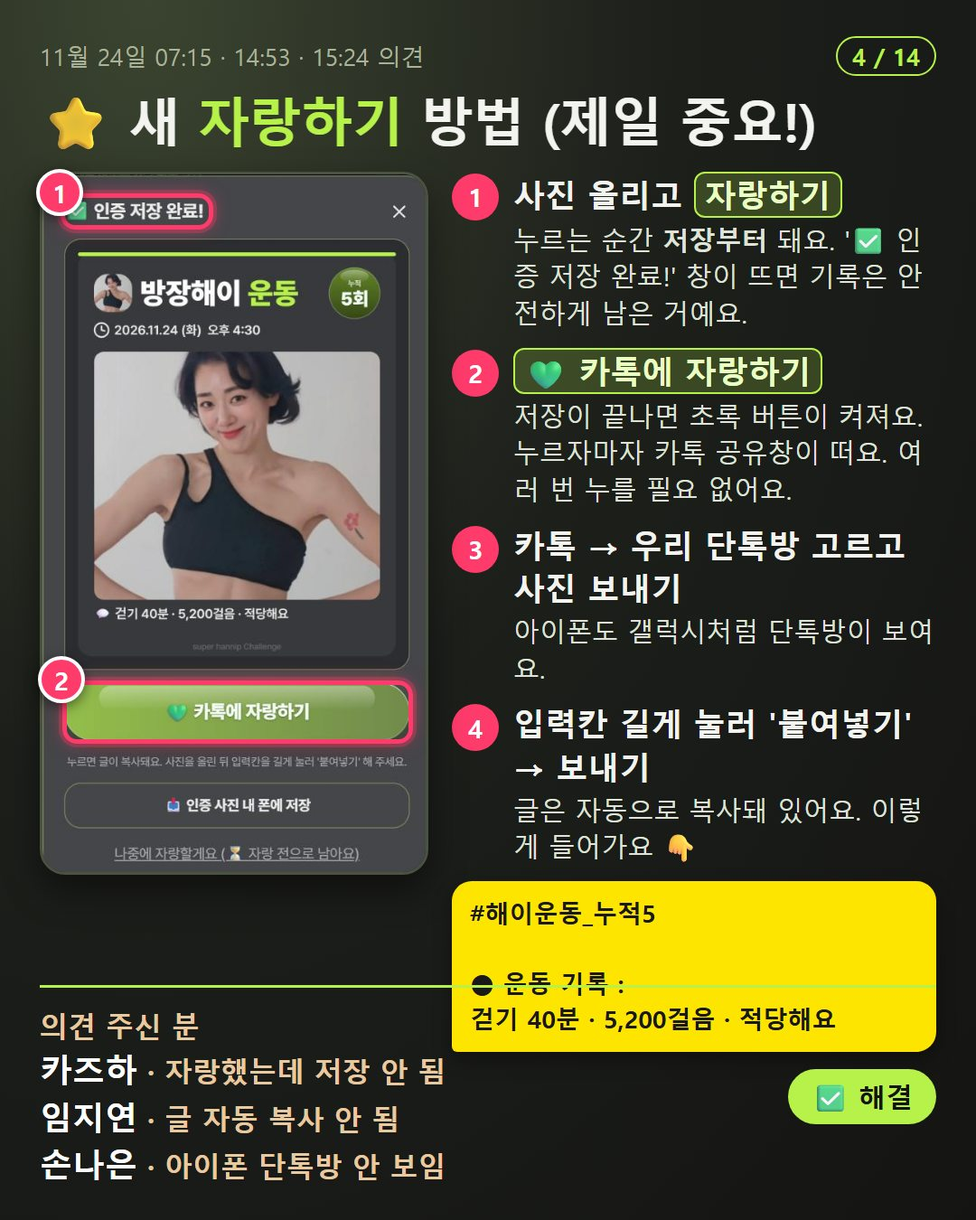
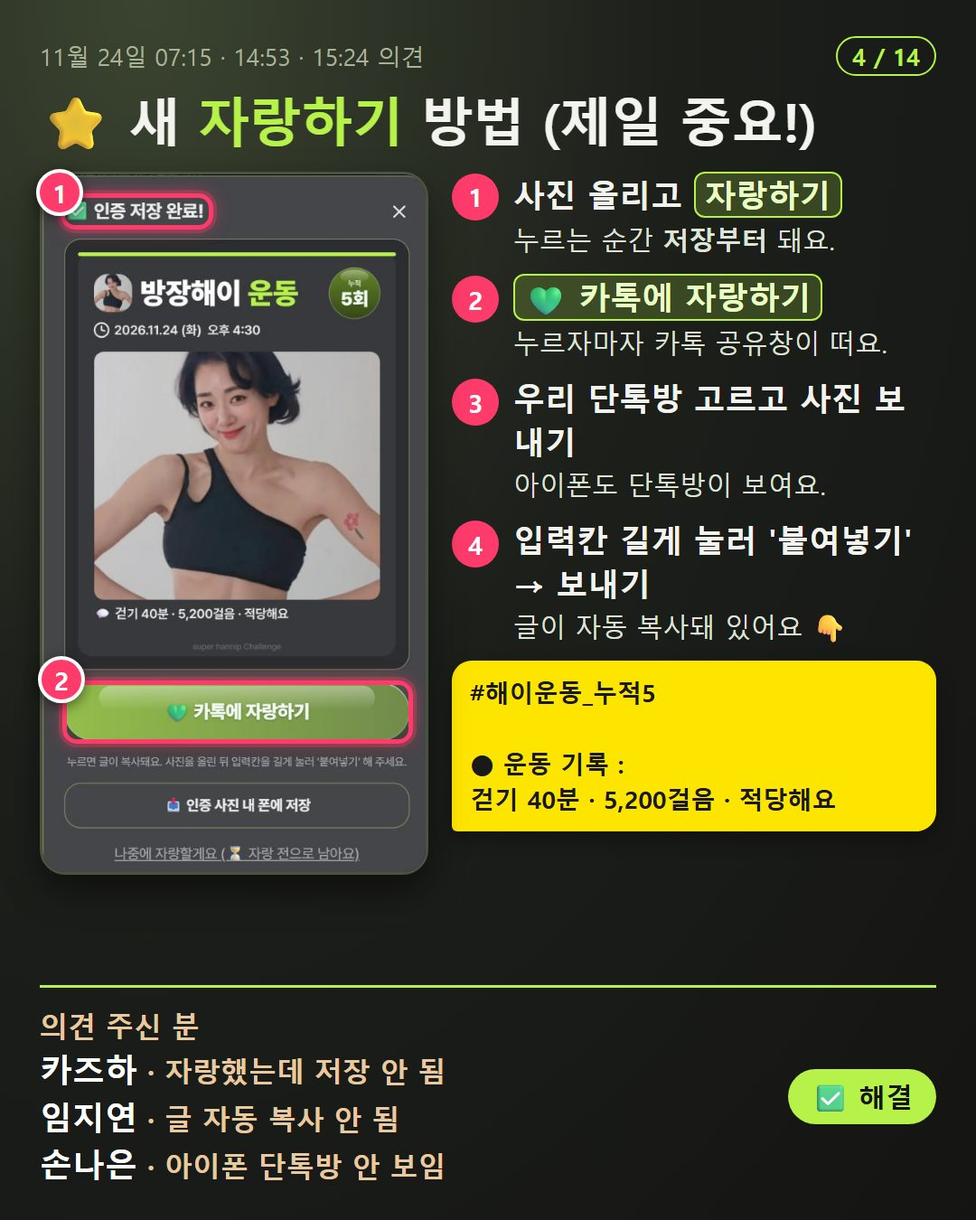
공지 4장 글 상자 겹침 고침

Changed region(s): [[0.4583, 0.1867, 0.9778, 0.8711]]

diff --git a/client/public/guide/index.html b/client/public/guide/index.html
@@ -60,10 +60,10 @@ video::cue{font-size:15px;background:rgba(0,0,0,.7)}
 .gal img{display:block;width:100%;border-radius:18px;margin-top:12px}
 </style></head><body><div class='wrap'><div class='page' id='p-home'><header><div class='ey'>SUPER HANNIP CHALLENGE</div><h1>앱 사용설명서</h1><p>보고 싶은 항목을 눌러 주세요.<br>다 보면 <b style='color:#b6f24a'>[← 뒤로 가기]</b>로 이 목록에 돌아와요.</p></header><div class='nu'><div class='nuh'>🆕 NEW UPDATE</div><div class='nubox'>
 <a class='bub' href='#v17_brag' data-id='v17_brag' data-date='2026-11-24'><span class='ring'><img src='poster/v17_brag.jpg' alt=''><i>🎬</i></span><span class='tag'>NEW</span><b>새 자랑하기</b><small>11/24</small></a>
-<a class='bub' href='#u1124' data-id='u1124' data-date='2026-11-24'><span class='ring'><img src='/notice/1124/01.jpg?v=4' alt=''><i>🖼</i></span><span class='tag'>NEW</span><b>크루 의견</b><small>11/24</small></a>
+<a class='bub' href='#u1124' data-id='u1124' data-date='2026-11-24'><span class='ring'><img src='/notice/1124/01.jpg?v=5' alt=''><i>🖼</i></span><span class='tag'>NEW</span><b>크루 의견</b><small>11/24</small></a>
 <a class='bub' href='#v15_meal_more' data-id='v15_meal_more' data-date='2026-11-23'><span class='ring'><img src='poster/v15_meal_more.jpg' alt=''><i>🎬</i></span><span class='tag'>NEW</span><b>식단 추가</b><small>11/23</small></a>
 <a class='bub' href='#v16_shop_more' data-id='v16_shop_more' data-date='2026-11-23'><span class='ring'><img src='poster/v16_shop_more.jpg' alt=''><i>🎬</i></span><span class='tag'>NEW</span><b>구매 추가</b><small>11/23</small></a>
-</div><p class='nuhint'>동그라미를 누르면 크게 볼 수 있어요 · <b>NEW</b>는 아직 안 본 것</p></div><div class='lh'>처음 시작할 때</div><div class='list'><a class='go' href='#signup'><span class='n'>1</span>👋 가입하기</a><a class='go' href='#profile'><span class='n'>2</span>📝 처음 정보 입력</a></div><div class='lh'>☰ 메뉴 사용법 (영상)</div><div class='list'><a class='go' href='#v01_menu'><span class='n'>1</span>메뉴 탭<span class='d'>0:39</span></a><a class='go' href='#v02_today'><span class='n'>2</span>오늘 탭<span class='d'>1:00</span></a><a class='go' href='#v03_sleep'><span class='n'>3</span>수면 인증<span class='d'>2:21</span></a><a class='go' href='#v04_meal'><span class='n'>4</span>식단 인증<span class='d'>0:52</span></a><a class='go' href='#v05_water'><span class='n'>5</span>물 인증<span class='d'>0:35</span></a><a class='go' href='#v06_exercise'><span class='n'>6</span>운동 인증<span class='d'>1:24</span></a><a class='go' href='#v07_weight'><span class='n'>7</span>체중 인증<span class='d'>1:11</span></a><a class='go' href='#v08_profile'><span class='n'>8</span>프로필 · 앱 꾸미기<span class='d'>1:02</span></a><a class='go' href='#v09_year'><span class='n'>9</span>1년<span class='d'>0:31</span></a><a class='go' href='#v10_itge'><span class='n'>10</span>이게돼 · 시상식<span class='d'>1:29</span></a><a class='go' href='#v11_change'><span class='n'>11</span>나의 변화 · 비포 애프터 · 멤버<span class='d'>0:46</span></a><a class='go' href='#v12_hof'><span class='n'>12</span>명예의 전당<span class='d'>0:43</span></a><a class='go' href='#v13_shop'><span class='n'>13</span>구매하기<span class='d'>1:20</span></a><a class='go' href='#v14_apply'><span class='n'>14</span>신청하기<span class='d'>1:36</span></a></div><footer>궁금한 건 앱의 <b>신청하기 → 의견 보내기</b>로 알려 주세요 💚<br>슈퍼한입 챌린지 · 나를 칭찬하는 순간, 우리 모두가 1등이 됩니다</footer></div><div class='page' id='p-signup'><div class='bar'><button type='button' class='back'>← 뒤로 가기</button></div><h2><span class='n'>1</span>👋 가입하기</h2><div class='vcard'><div class='vlabel'>🎬 영상으로 보기 <span>1:37</span></div><button type='button' class='vthumb mthumb' style="background-image:url('poster/signup_v.jpg')" data-src='vid/signup.mp4?v=2' data-sub='sub/signup.vtt?v=2'><span class='dim'></span><span class='play'></span><span class='tx'>눌러서 영상 보기</span></button></div></div><div class='page' id='p-profile'><div class='bar'><button type='button' class='back'>← 뒤로 가기</button></div><h2><span class='n'>2</span>📝 처음 정보 입력</h2><div class='vcard'><div class='vlabel'>🎬 영상으로 보기 <span>2:07</span></div><button type='button' class='vthumb mthumb' style="background-image:url('poster/profile_v.jpg')" data-src='vid/profile.mp4?v=2' data-sub='sub/profile.vtt?v=2'><span class='dim'></span><span class='play'></span><span class='tx'>눌러서 영상 보기</span></button></div></div><div class='page' id='p-v01_menu'><div class='bar'><button type='button' class='back'>← 뒤로 가기</button></div><div class='vcard mv' style='margin-top:8px'><div class='vlabel'><span style='color:#ececea;font-size:23px;font-weight:900'><i>1</i>메뉴 탭</span><span>0:39</span></div><button type='button' class='vthumb mthumb' style="background-image:url('poster/v01_menu.jpg')" data-src='vid/v01_menu.mp4' data-sub='sub/v01_menu.vtt'><span class='dim'></span><span class='play'></span><span class='tx'>눌러서 영상 보기</span></button></div></div><div class='page' id='p-v02_today'><div class='bar'><button type='button' class='back'>← 뒤로 가기</button></div><div class='vcard mv' style='margin-top:8px'><div class='vlabel'><span style='color:#ececea;font-size:23px;font-weight:900'><i>2</i>오늘 탭</span><span>1:00</span></div><button type='button' class='vthumb mthumb' style="background-image:url('poster/v02_today.jpg')" data-src='vid/v02_today.mp4' data-sub='sub/v02_today.vtt'><span class='dim'></span><span class='play'></span><span class='tx'>눌러서 영상 보기</span></button></div></div><div class='page' id='p-v03_sleep'><div class='bar'><button type='button' class='back'>← 뒤로 가기</button></div><div class='vcard mv' style='margin-top:8px'><div class='vlabel'><span style='color:#ececea;font-size:23px;font-weight:900'><i>3</i>수면 인증</span><span>2:21</span></div><button type='button' class='vthumb mthumb' style="background-image:url('poster/v03_sleep.jpg')" data-src='vid/v03_sleep.mp4' data-sub='sub/v03_sleep.vtt'><span class='dim'></span><span class='play'></span><span class='tx'>눌러서 영상 보기</span></button></div></div><div class='page' id='p-v04_meal'><div class='bar'><button type='button' class='back'>← 뒤로 가기</button></div><div class='vcard mv' style='margin-top:8px'><div class='vlabel'><span style='color:#ececea;font-size:23px;font-weight:900'><i>4</i>식단 인증</span><span>0:52</span></div><button type='button' class='vthumb mthumb' style="background-image:url('poster/v04_meal.jpg')" data-src='vid/v04_meal.mp4' data-sub='sub/v04_meal.vtt'><span class='dim'></span><span class='play'></span><span class='tx'>눌러서 영상 보기</span></button></div></div><div class='page' id='p-v05_water'><div class='bar'><button type='button' class='back'>← 뒤로 가기</button></div><div class='vcard mv' style='margin-top:8px'><div class='vlabel'><span style='color:#ececea;font-size:23px;font-weight:900'><i>5</i>물 인증</span><span>0:35</span></div><button type='button' class='vthumb mthumb' style="background-image:url('poster/v05_water.jpg')" data-src='vid/v05_water.mp4' data-sub='sub/v05_water.vtt'><span class='dim'></span><span class='play'></span><span class='tx'>눌러서 영상 보기</span></button></div></div><div class='page' id='p-v06_exercise'><div class='bar'><button type='button' class='back'>← 뒤로 가기</button></div><div class='vcard mv' style='margin-top:8px'><div class='vlabel'><span style='color:#ececea;font-size:23px;font-weight:900'><i>6</i>운동 인증</span><span>1:24</span></div><button type='button' class='vthumb mthumb' style="background-image:url('poster/v06_exercise.jpg')" data-src='vid/v06_exercise.mp4' data-sub='sub/v06_exercise.vtt'><span class='dim'></span><span class='play'></span><span class='tx'>눌러서 영상 보기</span></button></div></div><div class='page' id='p-v07_weight'><div class='bar'><button type='button' class='back'>← 뒤로 가기</button></div><div class='vcard mv' style='margin-top:8px'><div class='vlabel'><span style='color:#ececea;font-size:23px;font-weight:900'><i>7</i>체중 인증</span><span>1:11</span></div><button type='button' class='vthumb mthumb' style="background-image:url('poster/v07_weight.jpg')" data-src='vid/v07_weight.mp4' data-sub='sub/v07_weight.vtt'><span class='dim'></span><span class='play'></span><span class='tx'>눌러서 영상 보기</span></button></div></div><div class='page' id='p-v08_profile'><div class='bar'><button type='button' class='back'>← 뒤로 가기</button></div><div class='vcard mv' style='margin-top:8px'><div class='vlabel'><span style='color:#ececea;font-size:23px;font-weight:900'><i>8</i>프로필 · 앱 꾸미기</span><span>1:02</span></div><button type='button' class='vthumb mthumb' style="background-image:url('poster/v08_profile.jpg')" data-src='vid/v08_profile.mp4' data-sub='sub/v08_profile.vtt'><span class='dim'></span><span class='play'></span><span class='tx'>눌러서 영상 보기</span></button></div></div><div class='page' id='p-v09_year'><div class='bar'><button type='button' class='back'>← 뒤로 가기</button></div><div class='vcard mv' style='margin-top:8px'><div class='vlabel'><span style='color:#ececea;font-size:23px;font-weight:900'><i>9</i>1년</span><span>0:31</span></div><button type='button' class='vthumb mthumb' style="background-image:url('poster/v09_year.jpg')" data-src='vid/v09_year.mp4' data-sub='sub/v09_year.vtt'><span class='dim'></span><span class='play'></span><span class='tx'>눌러서 영상 보기</span></button></div></div><div class='page' id='p-v10_itge'><div class='bar'><button type='button' class='back'>← 뒤로 가기</button></div><div class='vcard mv' style='margin-top:8px'><div class='vlabel'><span style='color:#ececea;font-size:23px;font-weight:900'><i>10</i>이게돼 · 시상식</span><span>1:29</span></div><button type='button' class='vthumb mthumb' style="background-image:url('poster/v10_itge.jpg')" data-src='vid/v10_itge.mp4' data-sub='sub/v10_itge.vtt'><span class='dim'></span><span class='play'></span><span class='tx'>눌러서 영상 보기</span></button></div></div><div class='page' id='p-v11_change'><div class='bar'><button type='button' class='back'>← 뒤로 가기</button></div><div class='vcard mv' style='margin-top:8px'><div class='vlabel'><span style='color:#ececea;font-size:23px;font-weight:900'><i>11</i>나의 변화 · 비포 애프터 · 멤버</span><span>0:46</span></div><button type='button' class='vthumb mthumb' style="background-image:url('poster/v11_change.jpg')" data-src='vid/v11_change.mp4' data-sub='sub/v11_change.vtt'><span class='dim'></span><span class='play'></span><span class='tx'>눌러서 영상 보기</span></button></div></div><div class='page' id='p-v12_hof'><div class='bar'><button type='button' class='back'>← 뒤로 가기</button></div><div class='vcard mv' style='margin-top:8px'><div class='vlabel'><span style='color:#ececea;font-size:23px;font-weight:900'><i>12</i>명예의 전당</span><span>0:43</span></div><button type='button' class='vthumb mthumb' style="background-image:url('poster/v12_hof.jpg')" data-src='vid/v12_hof.mp4' data-sub='sub/v12_hof.vtt'><span class='dim'></span><span class='play'></span><span class='tx'>눌러서 영상 보기</span></button></div></div><div class='page' id='p-v13_shop'><div class='bar'><button type='button' class='back'>← 뒤로 가기</button></div><div class='vcard mv' style='margin-top:8px'><div class='vlabel'><span style='color:#ececea;font-size:23px;font-weight:900'><i>13</i>구매하기</span><span>1:20</span></div><button type='button' class='vthumb mthumb' style="background-image:url('poster/v13_shop.jpg')" data-src='vid/v13_shop.mp4' data-sub='sub/v13_shop.vtt'><span class='dim'></span><span class='play'></span><span class='tx'>눌러서 영상 보기</span></button></div></div><div class='page' id='p-v14_apply'><div class='bar'><button type='button' class='back'>← 뒤로 가기</button></div><div class='vcard mv' style='margin-top:8px'><div class='vlabel'><span style='color:#ececea;font-size:23px;font-weight:900'><i>14</i>신청하기</span><span>1:36</span></div><button type='button' class='vthumb mthumb' style="background-image:url('poster/v14_apply.jpg')" data-src='vid/v14_apply.mp4' data-sub='sub/v14_apply.vtt'><span class='dim'></span><span class='play'></span><span class='tx'>눌러서 영상 보기</span></button></div></div><div class='page' id='p-v15_meal_more'><div class='bar'><button type='button' class='back'>← 뒤로 가기</button></div><div class='vcard mv' style='margin-top:8px'><div class='vlabel'><span style='color:#ececea;font-size:23px;font-weight:900'><i>⭐</i>추가 내용 · 식단 인증</span><span>4:23</span></div><p style='margin:6px 2px 12px;color:#b6f24a;font-weight:800;font-size:17px'>식단 인증 추가 내용 있어요. 이거 꼭 보세요!</p><button type='button' class='vthumb mthumb' style="background-image:url('poster/v15_meal_more.jpg')" data-src='vid/v15_meal_more.mp4' data-sub='sub/v15_meal_more.vtt'><span class='dim'></span><span class='play'></span><span class='tx'>눌러서 영상 보기</span></button></div></div><div class='page' id='p-v16_shop_more'><div class='bar'><button type='button' class='back'>← 뒤로 가기</button></div><div class='vcard mv' style='margin-top:8px'><div class='vlabel'><span style='color:#ececea;font-size:23px;font-weight:900'><i>⭐</i>추가 내용 · 구매하기</span><span>1:38</span></div><p style='margin:6px 2px 12px;color:#b6f24a;font-weight:800;font-size:17px'>구매하기 추가 내용 있어요. 구매 전에 꼭 보세요!</p><button type='button' class='vthumb mthumb' style="background-image:url('poster/v16_shop_more.jpg')" data-src='vid/v16_shop_more.mp4' data-sub='sub/v16_shop_more.vtt'><span class='dim'></span><span class='play'></span><span class='tx'>눌러서 영상 보기</span></button></div></div><div class='page' id='p-v17_brag'><div class='bar'><button type='button' class='back'>← 뒤로 가기</button></div><div class='vcard mv' style='margin-top:8px'><div class='vlabel'><span style='color:#ececea;font-size:23px;font-weight:900'><i>⭐</i>추가 내용 · 새 자랑하기</span><span>1:23</span></div><p style='margin:6px 2px 12px;color:#b6f24a;font-weight:800;font-size:17px'>자랑하기를 누르면 저장부터! 깜빡하면 '자랑 전'에서 다시, 내 폰 저장, 글 붙여넣기까지 꼭 보세요!</p><button type='button' class='vthumb mthumb' style="background-image:url('poster/v17_brag.jpg')" data-src='vid/v17_brag.mp4' data-sub='sub/v17_brag.vtt'><span class='dim'></span><span class='play'></span><span class='tx'>눌러서 영상 보기</span></button></div></div><div class='page' id='p-u1124'><div class='bar'><button type='button' class='back'>← 뒤로 가기</button></div><h2>🖼 11월 24일 업데이트</h2><p style='color:#a6a9ae;font-size:14px;margin:4px 2px 0'>아래로 내리면서 한 장씩 봐 주세요.</p><div class='gal'><img src='/notice/1124/01.jpg?v=4' alt='업데이트 안내 2' loading='lazy'><img src='/notice/1124/02.jpg?v=4' alt='업데이트 안내 3' loading='lazy'><img src='/notice/1124/03.jpg?v=4' alt='업데이트 안내 4' loading='lazy'><img src='/notice/1124/04.jpg?v=4' alt='업데이트 안내 5' loading='lazy'><img src='/notice/1124/05.jpg?v=4' alt='업데이트 안내 6' loading='lazy'><img src='/notice/1124/06.jpg?v=4' alt='업데이트 안내 7' loading='lazy'><img src='/notice/1124/07.jpg?v=4' alt='업데이트 안내 8' loading='lazy'><img src='/notice/1124/08.jpg?v=4' alt='업데이트 안내 9' loading='lazy'><img src='/notice/1124/09.jpg?v=4' alt='업데이트 안내 10' loading='lazy'><img src='/notice/1124/10.jpg?v=4' alt='업데이트 안내 11' loading='lazy'><img src='/notice/1124/11.jpg?v=4' alt='업데이트 안내 12' loading='lazy'><img src='/notice/1124/12.jpg?v=4' alt='업데이트 안내 13' loading='lazy'><img src='/notice/1124/13.jpg?v=4' alt='업데이트 안내 14' loading='lazy'><img src='/notice/1124/14.jpg?v=4' alt='업데이트 안내 15' loading='lazy'></div></div></div><script>
+</div><p class='nuhint'>동그라미를 누르면 크게 볼 수 있어요 · <b>NEW</b>는 아직 안 본 것</p></div><div class='lh'>처음 시작할 때</div><div class='list'><a class='go' href='#signup'><span class='n'>1</span>👋 가입하기</a><a class='go' href='#profile'><span class='n'>2</span>📝 처음 정보 입력</a></div><div class='lh'>☰ 메뉴 사용법 (영상)</div><div class='list'><a class='go' href='#v01_menu'><span class='n'>1</span>메뉴 탭<span class='d'>0:39</span></a><a class='go' href='#v02_today'><span class='n'>2</span>오늘 탭<span class='d'>1:00</span></a><a class='go' href='#v03_sleep'><span class='n'>3</span>수면 인증<span class='d'>2:21</span></a><a class='go' href='#v04_meal'><span class='n'>4</span>식단 인증<span class='d'>0:52</span></a><a class='go' href='#v05_water'><span class='n'>5</span>물 인증<span class='d'>0:35</span></a><a class='go' href='#v06_exercise'><span class='n'>6</span>운동 인증<span class='d'>1:24</span></a><a class='go' href='#v07_weight'><span class='n'>7</span>체중 인증<span class='d'>1:11</span></a><a class='go' href='#v08_profile'><span class='n'>8</span>프로필 · 앱 꾸미기<span class='d'>1:02</span></a><a class='go' href='#v09_year'><span class='n'>9</span>1년<span class='d'>0:31</span></a><a class='go' href='#v10_itge'><span class='n'>10</span>이게돼 · 시상식<span class='d'>1:29</span></a><a class='go' href='#v11_change'><span class='n'>11</span>나의 변화 · 비포 애프터 · 멤버<span class='d'>0:46</span></a><a class='go' href='#v12_hof'><span class='n'>12</span>명예의 전당<span class='d'>0:43</span></a><a class='go' href='#v13_shop'><span class='n'>13</span>구매하기<span class='d'>1:20</span></a><a class='go' href='#v14_apply'><span class='n'>14</span>신청하기<span class='d'>1:36</span></a></div><footer>궁금한 건 앱의 <b>신청하기 → 의견 보내기</b>로 알려 주세요 💚<br>슈퍼한입 챌린지 · 나를 칭찬하는 순간, 우리 모두가 1등이 됩니다</footer></div><div class='page' id='p-signup'><div class='bar'><button type='button' class='back'>← 뒤로 가기</button></div><h2><span class='n'>1</span>👋 가입하기</h2><div class='vcard'><div class='vlabel'>🎬 영상으로 보기 <span>1:37</span></div><button type='button' class='vthumb mthumb' style="background-image:url('poster/signup_v.jpg')" data-src='vid/signup.mp4?v=2' data-sub='sub/signup.vtt?v=2'><span class='dim'></span><span class='play'></span><span class='tx'>눌러서 영상 보기</span></button></div></div><div class='page' id='p-profile'><div class='bar'><button type='button' class='back'>← 뒤로 가기</button></div><h2><span class='n'>2</span>📝 처음 정보 입력</h2><div class='vcard'><div class='vlabel'>🎬 영상으로 보기 <span>2:07</span></div><button type='button' class='vthumb mthumb' style="background-image:url('poster/profile_v.jpg')" data-src='vid/profile.mp4?v=2' data-sub='sub/profile.vtt?v=2'><span class='dim'></span><span class='play'></span><span class='tx'>눌러서 영상 보기</span></button></div></div><div class='page' id='p-v01_menu'><div class='bar'><button type='button' class='back'>← 뒤로 가기</button></div><div class='vcard mv' style='margin-top:8px'><div class='vlabel'><span style='color:#ececea;font-size:23px;font-weight:900'><i>1</i>메뉴 탭</span><span>0:39</span></div><button type='button' class='vthumb mthumb' style="background-image:url('poster/v01_menu.jpg')" data-src='vid/v01_menu.mp4' data-sub='sub/v01_menu.vtt'><span class='dim'></span><span class='play'></span><span class='tx'>눌러서 영상 보기</span></button></div></div><div class='page' id='p-v02_today'><div class='bar'><button type='button' class='back'>← 뒤로 가기</button></div><div class='vcard mv' style='margin-top:8px'><div class='vlabel'><span style='color:#ececea;font-size:23px;font-weight:900'><i>2</i>오늘 탭</span><span>1:00</span></div><button type='button' class='vthumb mthumb' style="background-image:url('poster/v02_today.jpg')" data-src='vid/v02_today.mp4' data-sub='sub/v02_today.vtt'><span class='dim'></span><span class='play'></span><span class='tx'>눌러서 영상 보기</span></button></div></div><div class='page' id='p-v03_sleep'><div class='bar'><button type='button' class='back'>← 뒤로 가기</button></div><div class='vcard mv' style='margin-top:8px'><div class='vlabel'><span style='color:#ececea;font-size:23px;font-weight:900'><i>3</i>수면 인증</span><span>2:21</span></div><button type='button' class='vthumb mthumb' style="background-image:url('poster/v03_sleep.jpg')" data-src='vid/v03_sleep.mp4' data-sub='sub/v03_sleep.vtt'><span class='dim'></span><span class='play'></span><span class='tx'>눌러서 영상 보기</span></button></div></div><div class='page' id='p-v04_meal'><div class='bar'><button type='button' class='back'>← 뒤로 가기</button></div><div class='vcard mv' style='margin-top:8px'><div class='vlabel'><span style='color:#ececea;font-size:23px;font-weight:900'><i>4</i>식단 인증</span><span>0:52</span></div><button type='button' class='vthumb mthumb' style="background-image:url('poster/v04_meal.jpg')" data-src='vid/v04_meal.mp4' data-sub='sub/v04_meal.vtt'><span class='dim'></span><span class='play'></span><span class='tx'>눌러서 영상 보기</span></button></div></div><div class='page' id='p-v05_water'><div class='bar'><button type='button' class='back'>← 뒤로 가기</button></div><div class='vcard mv' style='margin-top:8px'><div class='vlabel'><span style='color:#ececea;font-size:23px;font-weight:900'><i>5</i>물 인증</span><span>0:35</span></div><button type='button' class='vthumb mthumb' style="background-image:url('poster/v05_water.jpg')" data-src='vid/v05_water.mp4' data-sub='sub/v05_water.vtt'><span class='dim'></span><span class='play'></span><span class='tx'>눌러서 영상 보기</span></button></div></div><div class='page' id='p-v06_exercise'><div class='bar'><button type='button' class='back'>← 뒤로 가기</button></div><div class='vcard mv' style='margin-top:8px'><div class='vlabel'><span style='color:#ececea;font-size:23px;font-weight:900'><i>6</i>운동 인증</span><span>1:24</span></div><button type='button' class='vthumb mthumb' style="background-image:url('poster/v06_exercise.jpg')" data-src='vid/v06_exercise.mp4' data-sub='sub/v06_exercise.vtt'><span class='dim'></span><span class='play'></span><span class='tx'>눌러서 영상 보기</span></button></div></div><div class='page' id='p-v07_weight'><div class='bar'><button type='button' class='back'>← 뒤로 가기</button></div><div class='vcard mv' style='margin-top:8px'><div class='vlabel'><span style='color:#ececea;font-size:23px;font-weight:900'><i>7</i>체중 인증</span><span>1:11</span></div><button type='button' class='vthumb mthumb' style="background-image:url('poster/v07_weight.jpg')" data-src='vid/v07_weight.mp4' data-sub='sub/v07_weight.vtt'><span class='dim'></span><span class='play'></span><span class='tx'>눌러서 영상 보기</span></button></div></div><div class='page' id='p-v08_profile'><div class='bar'><button type='button' class='back'>← 뒤로 가기</button></div><div class='vcard mv' style='margin-top:8px'><div class='vlabel'><span style='color:#ececea;font-size:23px;font-weight:900'><i>8</i>프로필 · 앱 꾸미기</span><span>1:02</span></div><button type='button' class='vthumb mthumb' style="background-image:url('poster/v08_profile.jpg')" data-src='vid/v08_profile.mp4' data-sub='sub/v08_profile.vtt'><span class='dim'></span><span class='play'></span><span class='tx'>눌러서 영상 보기</span></button></div></div><div class='page' id='p-v09_year'><div class='bar'><button type='button' class='back'>← 뒤로 가기</button></div><div class='vcard mv' style='margin-top:8px'><div class='vlabel'><span style='color:#ececea;font-size:23px;font-weight:900'><i>9</i>1년</span><span>0:31</span></div><button type='button' class='vthumb mthumb' style="background-image:url('poster/v09_year.jpg')" data-src='vid/v09_year.mp4' data-sub='sub/v09_year.vtt'><span class='dim'></span><span class='play'></span><span class='tx'>눌러서 영상 보기</span></button></div></div><div class='page' id='p-v10_itge'><div class='bar'><button type='button' class='back'>← 뒤로 가기</button></div><div class='vcard mv' style='margin-top:8px'><div class='vlabel'><span style='color:#ececea;font-size:23px;font-weight:900'><i>10</i>이게돼 · 시상식</span><span>1:29</span></div><button type='button' class='vthumb mthumb' style="background-image:url('poster/v10_itge.jpg')" data-src='vid/v10_itge.mp4' data-sub='sub/v10_itge.vtt'><span class='dim'></span><span class='play'></span><span class='tx'>눌러서 영상 보기</span></button></div></div><div class='page' id='p-v11_change'><div class='bar'><button type='button' class='back'>← 뒤로 가기</button></div><div class='vcard mv' style='margin-top:8px'><div class='vlabel'><span style='color:#ececea;font-size:23px;font-weight:900'><i>11</i>나의 변화 · 비포 애프터 · 멤버</span><span>0:46</span></div><button type='button' class='vthumb mthumb' style="background-image:url('poster/v11_change.jpg')" data-src='vid/v11_change.mp4' data-sub='sub/v11_change.vtt'><span class='dim'></span><span class='play'></span><span class='tx'>눌러서 영상 보기</span></button></div></div><div class='page' id='p-v12_hof'><div class='bar'><button type='button' class='back'>← 뒤로 가기</button></div><div class='vcard mv' style='margin-top:8px'><div class='vlabel'><span style='color:#ececea;font-size:23px;font-weight:900'><i>12</i>명예의 전당</span><span>0:43</span></div><button type='button' class='vthumb mthumb' style="background-image:url('poster/v12_hof.jpg')" data-src='vid/v12_hof.mp4' data-sub='sub/v12_hof.vtt'><span class='dim'></span><span class='play'></span><span class='tx'>눌러서 영상 보기</span></button></div></div><div class='page' id='p-v13_shop'><div class='bar'><button type='button' class='back'>← 뒤로 가기</button></div><div class='vcard mv' style='margin-top:8px'><div class='vlabel'><span style='color:#ececea;font-size:23px;font-weight:900'><i>13</i>구매하기</span><span>1:20</span></div><button type='button' class='vthumb mthumb' style="background-image:url('poster/v13_shop.jpg')" data-src='vid/v13_shop.mp4' data-sub='sub/v13_shop.vtt'><span class='dim'></span><span class='play'></span><span class='tx'>눌러서 영상 보기</span></button></div></div><div class='page' id='p-v14_apply'><div class='bar'><button type='button' class='back'>← 뒤로 가기</button></div><div class='vcard mv' style='margin-top:8px'><div class='vlabel'><span style='color:#ececea;font-size:23px;font-weight:900'><i>14</i>신청하기</span><span>1:36</span></div><button type='button' class='vthumb mthumb' style="background-image:url('poster/v14_apply.jpg')" data-src='vid/v14_apply.mp4' data-sub='sub/v14_apply.vtt'><span class='dim'></span><span class='play'></span><span class='tx'>눌러서 영상 보기</span></button></div></div><div class='page' id='p-v15_meal_more'><div class='bar'><button type='button' class='back'>← 뒤로 가기</button></div><div class='vcard mv' style='margin-top:8px'><div class='vlabel'><span style='color:#ececea;font-size:23px;font-weight:900'><i>⭐</i>추가 내용 · 식단 인증</span><span>4:23</span></div><p style='margin:6px 2px 12px;color:#b6f24a;font-weight:800;font-size:17px'>식단 인증 추가 내용 있어요. 이거 꼭 보세요!</p><button type='button' class='vthumb mthumb' style="background-image:url('poster/v15_meal_more.jpg')" data-src='vid/v15_meal_more.mp4' data-sub='sub/v15_meal_more.vtt'><span class='dim'></span><span class='play'></span><span class='tx'>눌러서 영상 보기</span></button></div></div><div class='page' id='p-v16_shop_more'><div class='bar'><button type='button' class='back'>← 뒤로 가기</button></div><div class='vcard mv' style='margin-top:8px'><div class='vlabel'><span style='color:#ececea;font-size:23px;font-weight:900'><i>⭐</i>추가 내용 · 구매하기</span><span>1:38</span></div><p style='margin:6px 2px 12px;color:#b6f24a;font-weight:800;font-size:17px'>구매하기 추가 내용 있어요. 구매 전에 꼭 보세요!</p><button type='button' class='vthumb mthumb' style="background-image:url('poster/v16_shop_more.jpg')" data-src='vid/v16_shop_more.mp4' data-sub='sub/v16_shop_more.vtt'><span class='dim'></span><span class='play'></span><span class='tx'>눌러서 영상 보기</span></button></div></div><div class='page' id='p-v17_brag'><div class='bar'><button type='button' class='back'>← 뒤로 가기</button></div><div class='vcard mv' style='margin-top:8px'><div class='vlabel'><span style='color:#ececea;font-size:23px;font-weight:900'><i>⭐</i>추가 내용 · 새 자랑하기</span><span>1:23</span></div><p style='margin:6px 2px 12px;color:#b6f24a;font-weight:800;font-size:17px'>자랑하기를 누르면 저장부터! 깜빡하면 '자랑 전'에서 다시, 내 폰 저장, 글 붙여넣기까지 꼭 보세요!</p><button type='button' class='vthumb mthumb' style="background-image:url('poster/v17_brag.jpg')" data-src='vid/v17_brag.mp4' data-sub='sub/v17_brag.vtt'><span class='dim'></span><span class='play'></span><span class='tx'>눌러서 영상 보기</span></button></div></div><div class='page' id='p-u1124'><div class='bar'><button type='button' class='back'>← 뒤로 가기</button></div><h2>🖼 11월 24일 업데이트</h2><p style='color:#a6a9ae;font-size:14px;margin:4px 2px 0'>아래로 내리면서 한 장씩 봐 주세요.</p><div class='gal'><img src='/notice/1124/01.jpg?v=5' alt='업데이트 안내 2' loading='lazy'><img src='/notice/1124/02.jpg?v=5' alt='업데이트 안내 3' loading='lazy'><img src='/notice/1124/03.jpg?v=5' alt='업데이트 안내 4' loading='lazy'><img src='/notice/1124/04.jpg?v=5' alt='업데이트 안내 5' loading='lazy'><img src='/notice/1124/05.jpg?v=5' alt='업데이트 안내 6' loading='lazy'><img src='/notice/1124/06.jpg?v=5' alt='업데이트 안내 7' loading='lazy'><img src='/notice/1124/07.jpg?v=5' alt='업데이트 안내 8' loading='lazy'><img src='/notice/1124/08.jpg?v=5' alt='업데이트 안내 9' loading='lazy'><img src='/notice/1124/09.jpg?v=5' alt='업데이트 안내 10' loading='lazy'><img src='/notice/1124/10.jpg?v=5' alt='업데이트 안내 11' loading='lazy'><img src='/notice/1124/11.jpg?v=5' alt='업데이트 안내 12' loading='lazy'><img src='/notice/1124/12.jpg?v=5' alt='업데이트 안내 13' loading='lazy'><img src='/notice/1124/13.jpg?v=5' alt='업데이트 안내 14' loading='lazy'><img src='/notice/1124/14.jpg?v=5' alt='업데이트 안내 15' loading='lazy'></div></div></div><script>
 function mk(t){const v=document.createElement('video');v.controls=true;v.playsInline=true;v.src=t.dataset.src;
  if(t.dataset.sub){const tr=document.createElement('track');tr.kind='subtitles';tr.srclang='ko';tr.label='한국어';tr.src=t.dataset.sub;tr.default=true;v.appendChild(tr)}
  v._t=t;t.replaceWith(v);v.play().catch(()=>{});}

diff --git a/client/src/lib/notices.ts b/client/src/lib/notices.ts
@@ -11,7 +11,7 @@ export type Notice = {
 };
 
 // 00.jpg(인증 멈추고 새로고침)는 빼고 01~12만 — 팝업이 떴다면 이미 새로고침된 것 (2026-11-24 해이)
-const n1124 = Array.from({ length: 14 }, (_, i) => `/notice/1124/${String(i + 1).padStart(2, "0")}.jpg?v=4`); // 사진을 바꾸면 v 숫자를 올린다(옛 사진이 남지 않게)
+const n1124 = Array.from({ length: 14 }, (_, i) => `/notice/1124/${String(i + 1).padStart(2, "0")}.jpg?v=5`); // 사진을 바꾸면 v 숫자를 올린다(옛 사진이 남지 않게)
 
 export const NOTICES: Notice[] = [
   {
